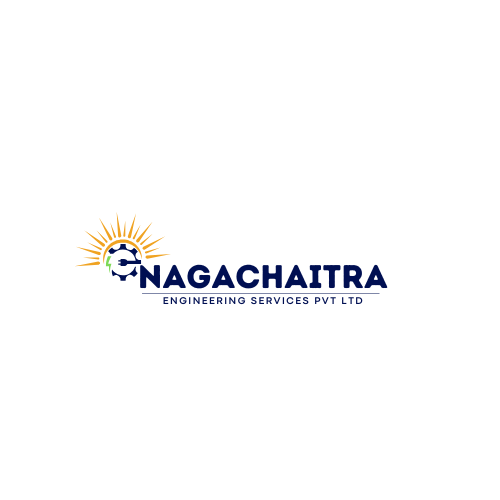
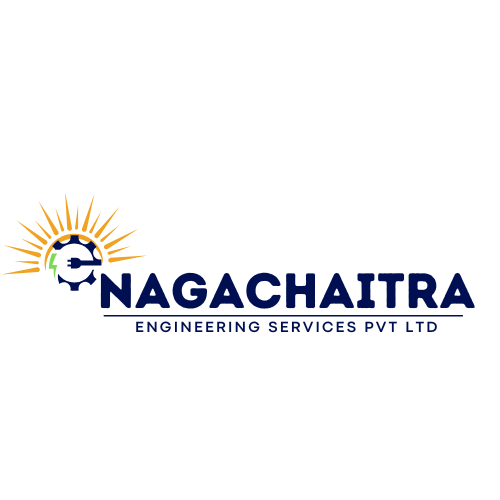
01-07-2025 12"11PM

Changed region(s): [[0.0, 0.39, 0.96, 0.69]]

diff --git a/assets/css/header.css b/assets/css/header.css
@@ -1,0 +1,51 @@
+ 
+
+  #header .container {
+    /* Ensure vertical alignment of items in the header */
+    align-items: center;
+    /* This will push logo to left and nav to right */
+    justify-content: space-between;
+    min-height: 70px; /* Ensure enough height for content */
+  }
+
+  #header img {
+    /* Your existing styles */
+    max-height: 60px;
+    height: auto;
+    width: auto;
+    display: block; /* Ensures proper rendering */
+    vertical-align: middle; /* Helps with vertical alignment */
+
+    /* --- IMPORTANT: LOGO VISIBILITY FIX --- */
+    /* Option 1: Invert colors (often makes dark logos white) */
+    filter: invert(1) brightness(1.5); /* Inverts colors and makes it a bit brighter */
+    /* Option 2: Increase brightness (if logo is just too dark, not necessarily black) */
+    /* filter: brightness(2); */ /* Adjust the value (e.g., 1.5 for 150% brightness, 2 for 200%) */
+    /* Option 3: Apply a sepia tone and brightness (can give an aged look) */
+    /* filter: sepia(1) brightness(2); */
+    /* Option 4: Drop shadow (can help separate it from background if color is similar) */
+    /* filter: drop-shadow(0px 0px 5px rgba(255, 255, 255, 0.7)); */
+  }
+
+  /* Ensure navbar links are also visible if they are dark */
+  #navbar .nav-link {
+    color: #ffffff; /* Make navigation links white for better contrast */
+    transition: color 0.3s ease-in-out; /* Smooth transition on hover */
+  }
+
+  #navbar .nav-link:hover,
+  #navbar .nav-link.active {
+    color: #6a9ce7; /* Example hover/active color (gold) */
+  }
+
+  /* Mobile navigation toggle icon visibility */
+  .mobile-nav-toggle {
+    color: #ffffff; /* Make the mobile toggle icon white */
+  }
+
+  /* General reset for navbar padding/margin to ensure tight alignment */
+  #navbar,
+  #navbar ul {
+    padding: 0;
+    margin: 0;
+  }

diff --git a/index.html b/index.html
@@ -27,6 +27,7 @@
 
   <!-- Template Main CSS File -->
   <link href="assets/css/style.css" rel="stylesheet">
+  <link href="assets/css/header.css" rel="stylesheet">
 
 </head>
 
@@ -36,7 +37,9 @@
   <header id="header" class="fixed-top ">
     <div class="container d-flex align-items-center justify-content-lg-between">
 
-      <h1 class="logo me-auto me-lg-0"><a href="index.html">NCESPL<span>.</span></a></h1>
+      <!-- <h1 class="logo me-auto me-lg-0"><a href="index.html">NCESPL<span>.</span></a></h1> -->
+      <img src="assets/img/Nagachaitra.svg" alt="Logo" style="max-height: 60px; height: auto; width: auto;">
+
 
       <nav id="navbar" class="navbar order-last order-lg-0">
         <ul>
@@ -55,7 +58,8 @@
       <!-- <a href="#contact" class="get-started-btn scrollto">Get Started</a> -->
 
     </div>
-  </header><!-- End Header -->
+  </header>
+  <!-- End Header -->
 
   <!-- ======= Hero Section ======= -->
   <!-- <section id="hero" class="d-flex align-items-center justify-content-center">

diff --git a/Contact.html b/Contact.html
@@ -37,7 +37,8 @@
     <header id="header" class="fixed-top ">
         <div class="container d-flex align-items-center justify-content-lg-between">
 
-            <h1 class="logo me-auto me-lg-0"><a href="index.html">NCESPL<span>.</span></a></h1>
+            <!-- <h1 class="logo me-auto me-lg-0"><a href="index.html">NCESPL<span>.</span></a></h1> -->
+             <img src="assets/img/Nagachaitra.svg" alt="Logo" style="max-height: 60px; height: auto; width: auto;">
 
             <nav id="navbar" class="navbar order-last order-lg-0">
                 <ul>

diff --git a/form.html b/form.html
@@ -48,7 +48,8 @@
     <header id="header" class="fixed-top ">
         <div class="container d-flex align-items-center justify-content-lg-between">
 
-            <h1 class="logo me-auto me-lg-0"><a href="index.html">NCESPL<span>.</span></a></h1>
+            <!-- <h1 class="logo me-auto me-lg-0"><a href="index.html">NCESPL<span>.</span></a></h1> -->
+             <img src="assets/img/Nagachaitra.svg" alt="Logo" style="max-height: 60px; height: auto; width: auto;">
 
             <nav id="navbar" class="navbar order-last order-lg-0">
                 <ul>

diff --git a/About.html b/About.html
@@ -42,7 +42,8 @@
     <header id="header" class="fixed-top ">
         <div class="container d-flex align-items-center justify-content-lg-between">
 
-            <h1 class="logo me-auto me-lg-0"><a href="index.html">NCESPL<span>.</span></a></h1>
+            <!-- <h1 class="logo me-auto me-lg-0"><a href="index.html">NCESPL<span>.</span></a></h1> -->
+            <img src="assets/img/Nagachaitra.svg" alt="Logo" style="max-height: 60px; height: auto; width: auto;">
 
             <nav id="navbar" class="navbar order-last order-lg-0">
                 <ul>

diff --git a/Products.html b/Products.html
@@ -39,7 +39,8 @@
   <header id="header" class="fixed-top ">
     <div class="container d-flex align-items-center justify-content-lg-between">
 
-      <h1 class="logo me-auto me-lg-0"><a href="index.html">NCESPL<span>.</span></a></h1>
+      <!-- <h1 class="logo me-auto me-lg-0"><a href="index.html">NCESPL<span>.</span></a></h1> -->
+       <img src="assets/img/Nagachaitra.svg" alt="Logo" style="max-height: 60px; height: auto; width: auto;">
 
       <nav id="navbar" class="navbar order-last order-lg-0">
         <ul>

diff --git a/Projects.html b/Projects.html
@@ -37,7 +37,8 @@
   <header id="header" class="fixed-top ">
     <div class="container d-flex align-items-center justify-content-lg-between">
 
-      <h1 class="logo me-auto me-lg-0"><a href="index.html">NCESPL<span>.</span></a></h1>
+      <!-- <h1 class="logo me-auto me-lg-0"><a href="index.html">NCESPL<span>.</span></a></h1> -->
+       <img src="assets/img/Nagachaitra.svg" alt="Logo" style="max-height: 60px; height: auto; width: auto;">
 
       <nav id="navbar" class="navbar order-last order-lg-0">
         <ul>

diff --git a/Services.html b/Services.html
@@ -39,7 +39,8 @@
   <header id="header" class="fixed-top ">
     <div class="container d-flex align-items-center justify-content-lg-between">
 
-      <h1 class="logo me-auto me-lg-0"><a href="index.html">NCESPL<span>.</span></a></h1>
+      <!-- <h1 class="logo me-auto me-lg-0"><a href="index.html">NCESPL<span>.</span></a></h1> -->
+       <img src="assets/img/Nagachaitra.svg" alt="Logo" style="max-height: 60px; height: auto; width: auto;">
 
       <nav id="navbar" class="navbar order-last order-lg-0">
         <ul>

diff --git a/Blog.html b/Blog.html
@@ -39,7 +39,8 @@
   <header id="header" class="fixed-top ">
     <div class="container d-flex align-items-center justify-content-lg-between">
 
-      <h1 class="logo me-auto me-lg-0"><a href="index.html">NCESPL<span>.</span></a></h1>
+      <!-- <h1 class="logo me-auto me-lg-0"><a href="index.html">NCESPL<span>.</span></a></h1> -->
+      <img src="assets/img/Nagachaitra.svg" alt="Logo" style="max-height: 60px; height: auto; width: auto;">
 
       <nav id="navbar" class="navbar order-last order-lg-0">
         <ul>

diff --git a/assets/css/style.css b/assets/css/style.css
@@ -109,6 +109,7 @@ h6 {
 /*--------------------------------------------------------------
 # Header
 --------------------------------------------------------------*/
+
 #header {
   transition: all 0.5s;
   z-index: 997;
